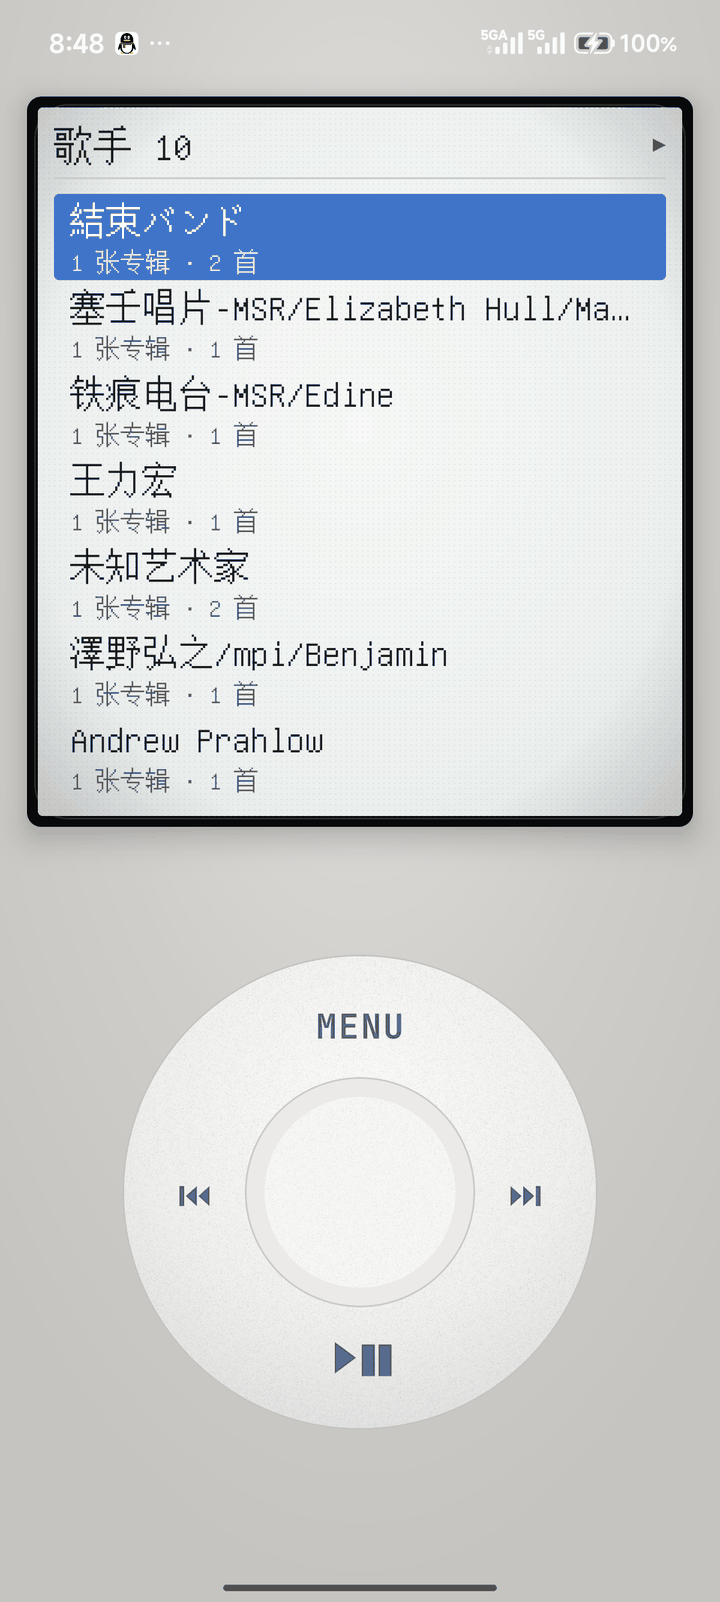
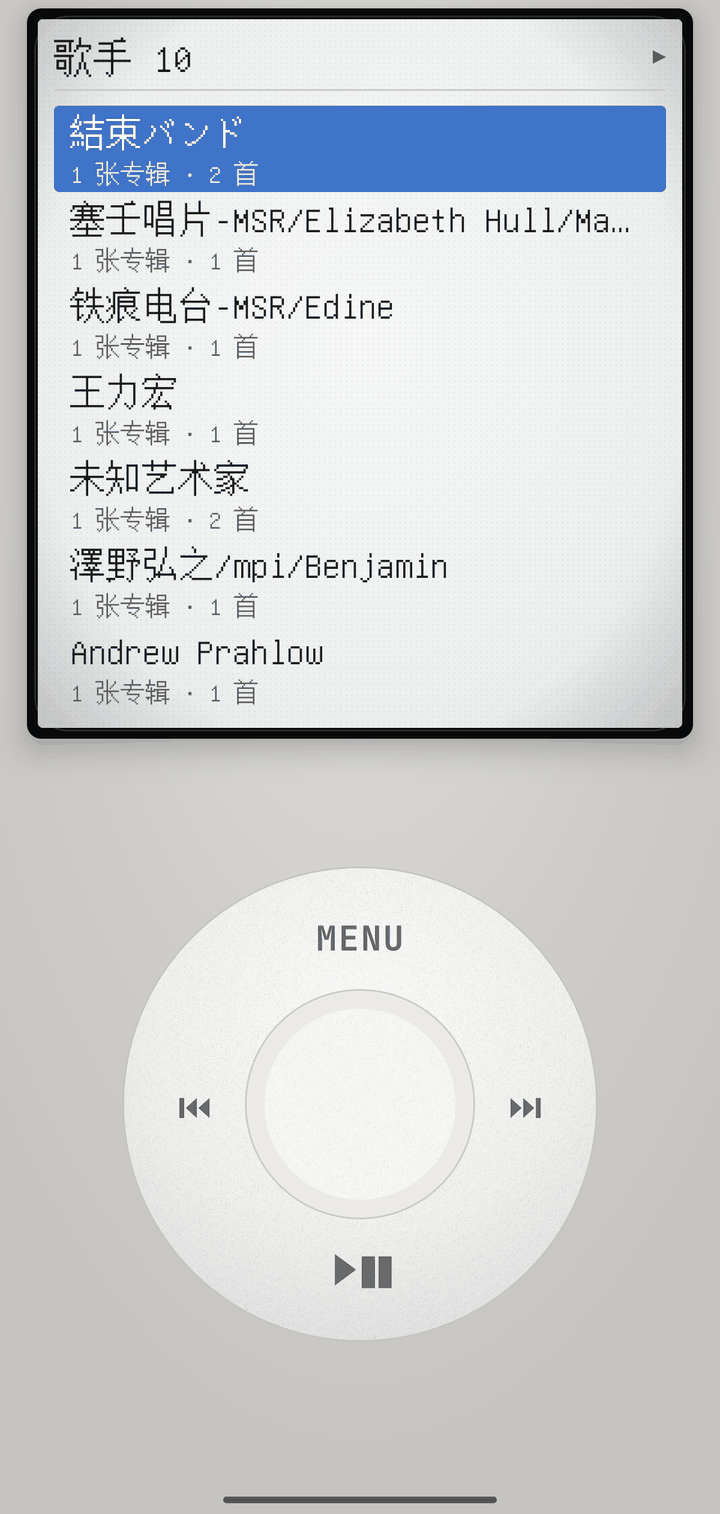
docs: 截图去掉顶部状态栏；把 AI 协作表述收敛为一句 vibecoding
- 截图：从 1200px 原图重新裁切，去掉顶部状态栏（147px），并修正轮盘特写与
  开屏的裁切位置；11 张合计 2.3MB
- README：删除大篇幅的「关于这个项目是怎么做出来的」章节与「我的角色」表格，
  改为一句说明（开发方式：vibecoding）；许可章节同样精简
- docs/RESUME.md：说明改为一句，重点放回「你实际做了什么」

diff --git a/docs/RESUME.md b/docs/RESUME.md
@@ -1,11 +1,11 @@
 # 简历与面试用材料 · HiPod
 
-> 说明：项目代码由 AI 智能体编写，我负责需求、技术决策、真机验收与发布。
-> 下面所有表述都按这个事实写，**不建议隐瞒 AI 协作** —— 2026 年的面试官更在意"你能不能指挥 AI 把东西做对"。
+> 说明：本项目为 vibecoding 方式开发（代码由 AI 智能体编写，本人负责需求定义、技术选型、真机验收与发布）。
+> 下面的表述按此事实写，重点放在**你实际做了什么**；被追问时如实说明即可，不必主动展开。
 
 ## 一、一句话版（技能行 / 项目列表）
 
-> **HiPod** — Android 复古点击轮音乐播放器（React Native / Expo）。以 AI 协作方式完成从需求定义、真机验收到签名发布的完整流程：双主题零重建架构、程序化材质贴图、中文像素字体管线、两个 Android config plugin。
+> **HiPod** — Android 复古点击轮音乐播放器（React Native / Expo）。完成从交互设计、真机验收到签名分发的完整流程：双主题零重建架构、程序化材质贴图、中文像素字体管线、两个 Android config plugin。
 
 ## 二、三点式（项目经历条目）
 
